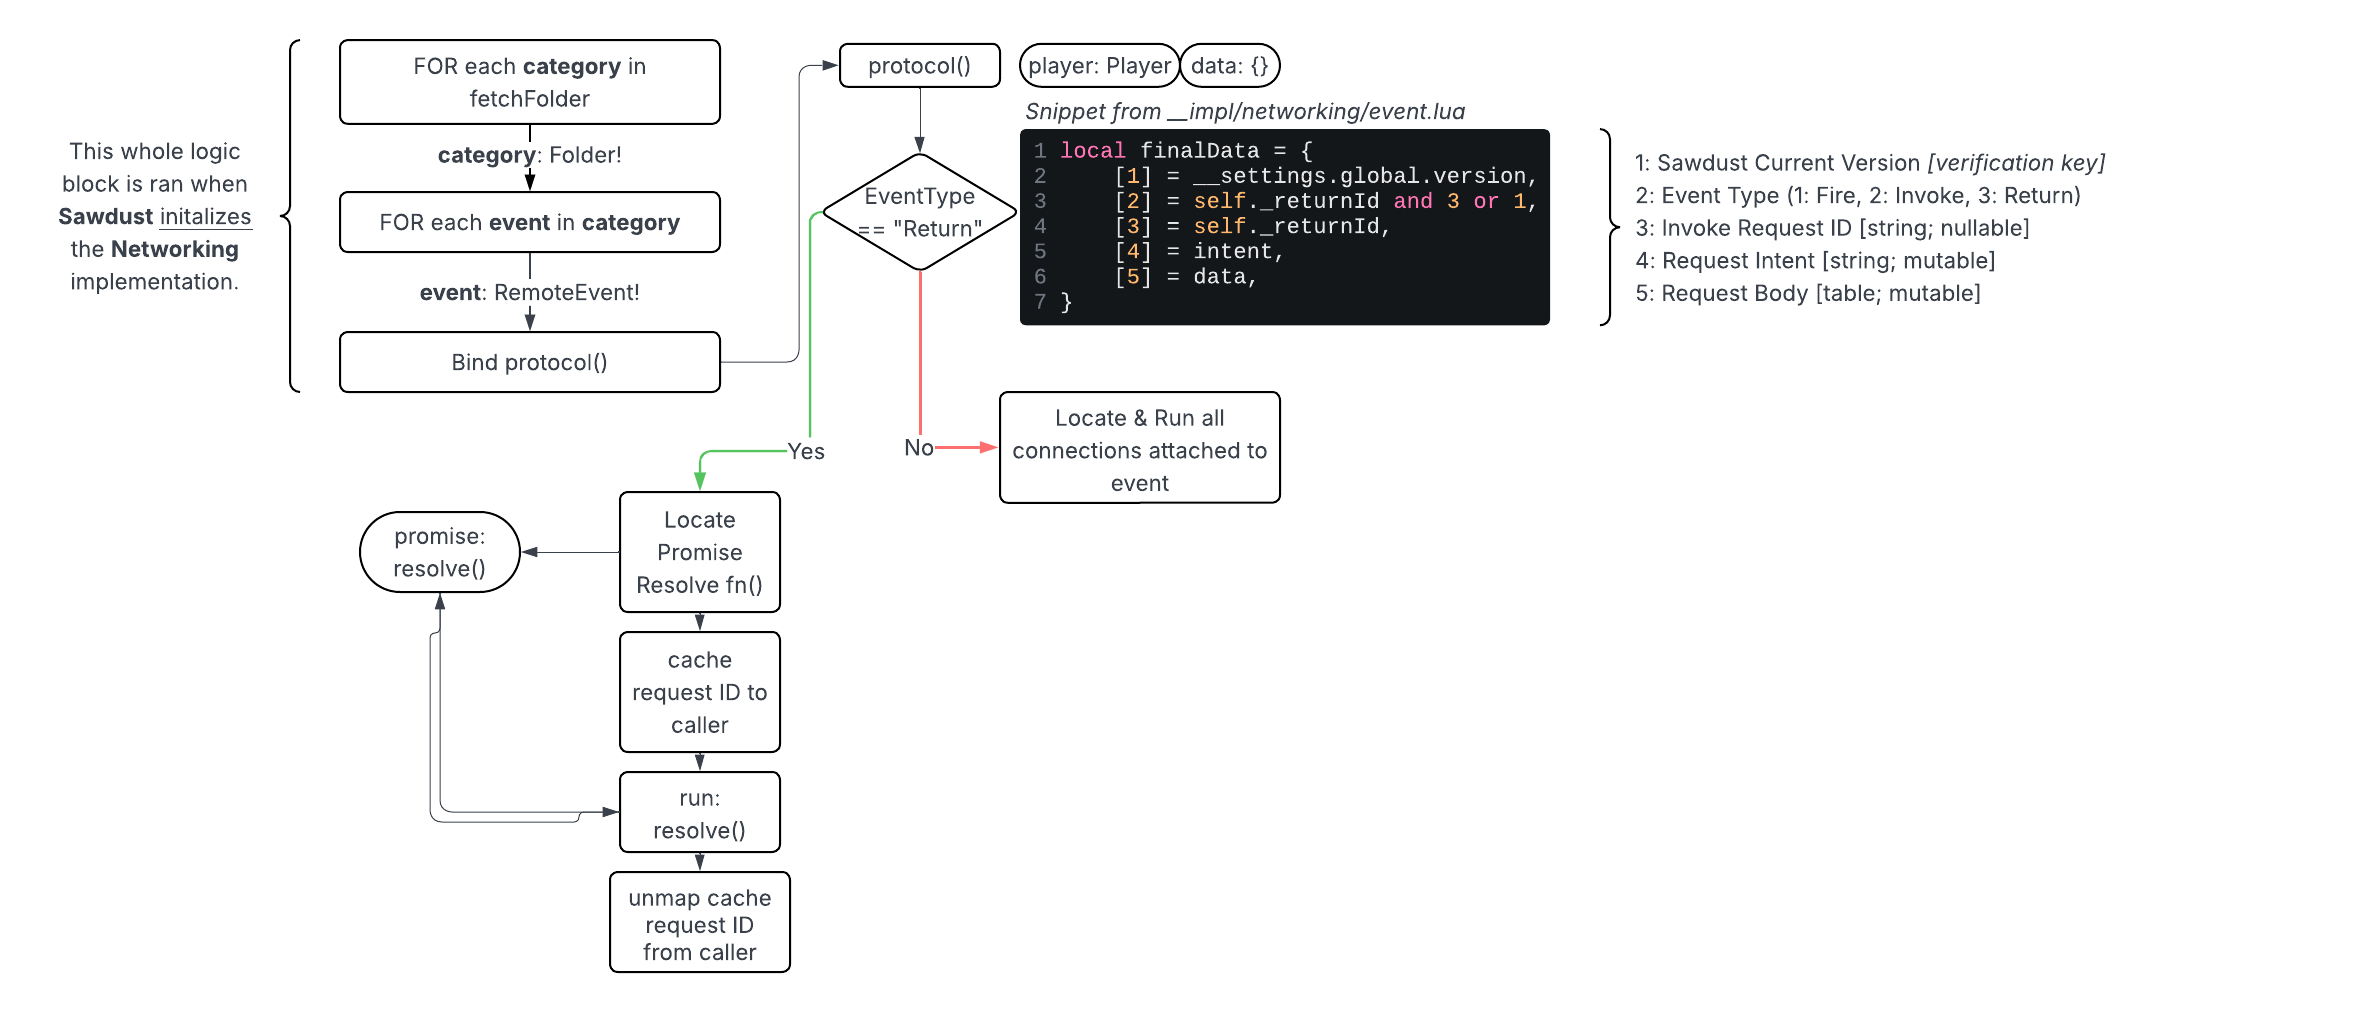
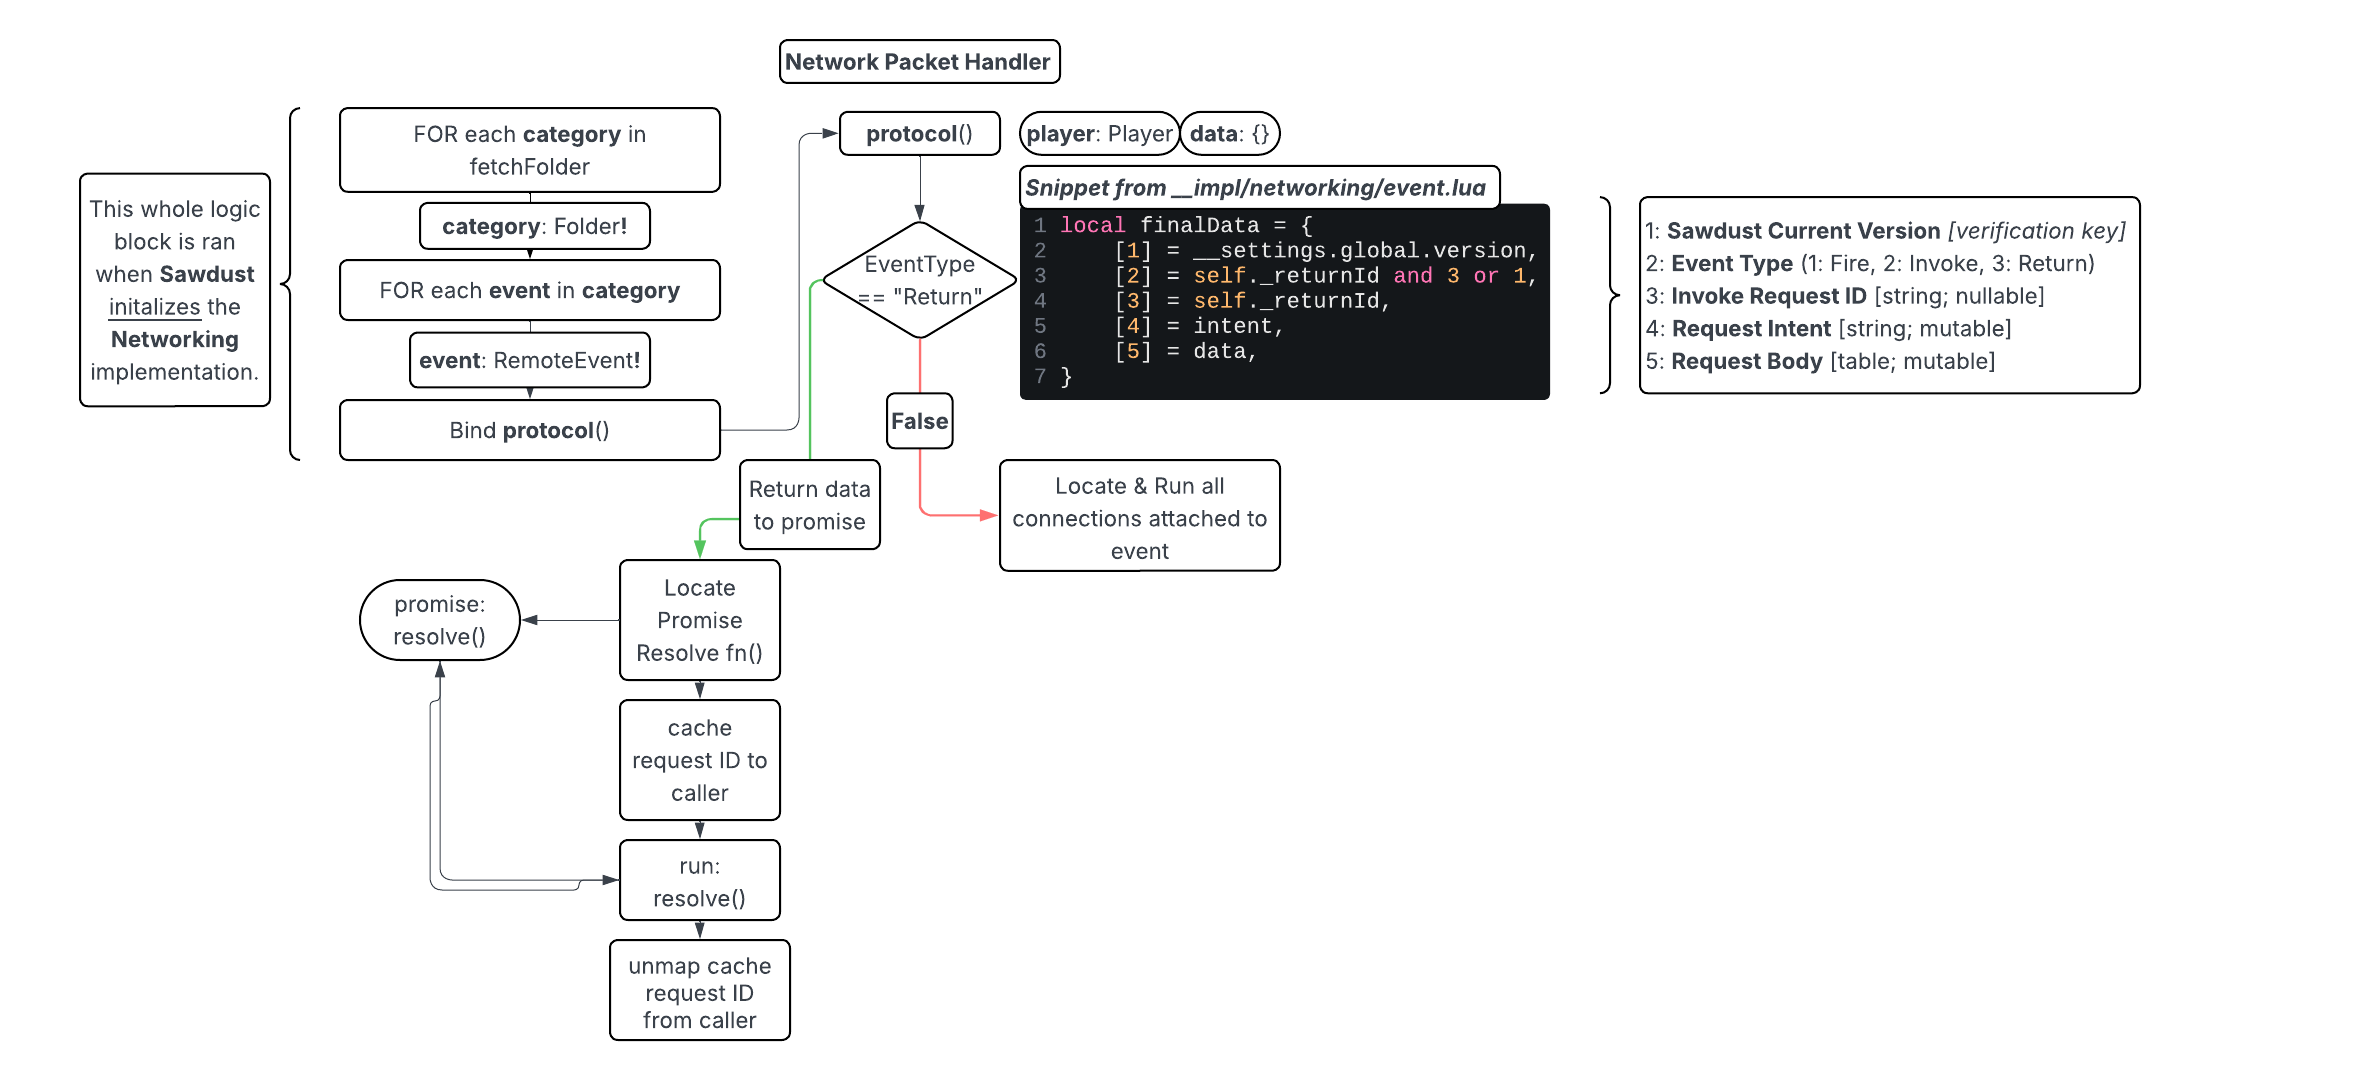
Filled out networking documentations.

Changed region(s): [[0.0311, 0.0306, 0.6529, 0.9802], [0.684, 0.1532, 0.9017, 0.3676], [0.8706, 0.337, 0.9017, 0.3676]]

diff --git a/docs/implementation-docs/networking.md b/docs/implementation-docs/networking.md
@@ -4,12 +4,160 @@ sidebar_position: 2
 
 # Networking
 
-I'm personally very proud of this implementation, and I think you'll come to love it as well! It was heavily inspired by Node's [ExpressJS](https://expressjs.com/) module in the way you handle events, as for firing events, I was heavily inspired by Node's [Axios](https://axios-http.com/). Basically, the best of both syntaxes, in a networking suite that can be as simple or advanced as you want.
+Sawdust's **Networking** Implementation is a robust RPC layer abstracted over Roblox RemoteEvents, inspired by the routing of [ExpressJS](https://expressjs.com/) and the request syntax of [Axios](https://axios-http.com/). It enables structured, bidirectional communication between client and server, while removing RemoteEvent boilerplate.
 
 ## RPC Layer
 
-When Sawdust initalizies this implementation, an initalization script runs that binds each remote in the `fetchFolder` to my custom networking handler, this provides a custom communication channel where you can dynamically send messages back and forth, soley utilizing RemoteEvents.
+When Sawdust initializes this implementation, an initalization script runs that binds each remote in the `fetchFolder` to my custom networking handler, this provides a custom communication channel where you can dynamically send messages back and forth, solely utilizing RemoteEvents.
 
 In the image below, I have mapped out a diagram of the Sawdust Networking Protocol function. The diagram describes the lifecycle, as well as how events are routed. It doesn't go in depth on how connections run, or how events compile and send data.
 
 ![Sawdust Networking Protocol](./img/NetworkProtocol.png)
+
+*Figure: Lifecycle of an event in Sawdust Networking, from initalization, to message handling.*
+
+## Core Concepts
+
+### fetchFolder
+
+This is the folder that **Sawdust** will search to find channels, which will be wrapped, binded to the Sawdust Networking protocol, and cached.
+
+### Event-Sided Awareness
+
+In Sawdust, the **Networking** implementation is designed so that the *same syntax* works on both **client** and **server**.
+
+When we refer to a "side", we mean the *content* in which the event handler or sender is running.
+
+- Server-side: You are in a server script/module. Incoming events come from clients, and you can either respond or reject their events. You can also broadcast to a select few, or globally.
+- Client-side: You are in a local script/module. Incoming events come from the server, and you can respond to them, and send events back.
+
+Sawdust does **not** require you to remember seperate APIs for each side, the same call patterns (`:with()`, `:handle()`, `:route()`) work anywhere, the only difference is **who you're talking to.**
+
+### Event Data
+
+Each event has specific data that will be attributed, notably the **intent**, and the **data**.
+
+The **intent** is a *string*, and this will tell the other side what exactly the event you fired is supposed to be doing. This allows you to use one event for a broad variety of things, and have streamlined handlers.
+
+The **data** is a *table*, and this is simply the data that will be passed along to the other side.
+
+### Channel
+
+[*__impl/networking/channel.lua*](https://github.com/Griffin-Dalby/Sawdust/blob/main/src/ReplicatedStorage/Sawdust/__impl/networking/channel.lua)
+
+**"Channels"** are wrapped *Folders* that simply expose all of the remotes that are included in the folder as a **Wrapped Event**, which will be covered in the next section.
+
+Example usage:
+
+```lua
+local sawdust = require(game:GetService('ReplicatedStorage').Sawdust)
+local networking = sawdust.core.networking
+
+local channel = networking.getChannel('channel_name') --] Provides wrapped channel
+local event = channel.event                           --] Provides wrapped event
+
+```
+
+### Events
+
+[*__impl/networking/event.lua*](https://github.com/Griffin-Dalby/Sawdust/blob/main/src/ReplicatedStorage/Sawdust/__impl/networking/event.lua)
+
+**"Events"** are wrapped *RemoteEvents* that provide all of the interface functions, such as the **"Call"** interface accessed by `:with()`, *req* and *res* with `:handle()`, and intent handling with `:route()`.
+
+Example usage:
+
+```lua
+local sawdust = require(game:GetService('ReplicatedStorage').Sawdust)
+local networking = sawdust.core.networking
+
+local channel = networking.getChannel('channel_name')
+channel.event:with() --> Fire-and-Forget
+    :intent('intent_string')          --] Set Intent
+    :data('argument_1', 'argument_2') --] Set Data
+    :fire()
+
+channel.event:with() --> Fire-and-Expect
+    :intent('intent_string')
+    :data('argument_1', 'argument_2')
+    :timeout(2) --] Set timeout time to 2 seconds
+    :invoke()   --> Returns a Sawdust Promise
+        :andThen(function(data)
+            local arg1, arg2 = data[1], data[2]
+        end)
+        :catch(function(err)
+            error(`[{script.Name}] Error occured while invoking event!`)
+            error(`[{script.Name}] {err or '<no error message provided>'}`)
+        end)
+```
+
+### Handling
+
+[*__impl/networking/event.lua*](https://github.com/Griffin-Dalby/Sawdust/blob/main/src/ReplicatedStorage/Sawdust/__impl/networking/event.lua)
+
+**Handling** is an important concept to understand, as this is where the ExpressJS syntax comes in! You can access an **event** the same way you would, then `:handle()` it, which will create a new **connection** to the event, the same way a *RBXScriptConnection* works.
+
+What's special about this, is you'll be provided with a **req** *(request)* object, and a **res** *(response)* object.
+
+With **req**, you can access the **intent** & **data** the event was sent with.
+
+With **res**, you can setup the current side's response, and then eventually **resolve**, or **reject** it.
+
+Example usage:
+
+```lua
+local sawdust = require(game:GetService('ReplicatedStorage').Sawdust)
+local networking = sawdust.core.networking
+
+local channel = networking.getChannel('channel_name')
+channel.event:handle(function(req, res)
+    local caller = req.caller :: Player
+    local intent = req.intent :: String
+    local data = req.data     :: {[number]: any}
+
+    if intent == 'intent_1' then
+        res.intent('intent_2')   --] Set response intent
+        res.data('argument_1')   --] Set response data
+        res.append('argument_2') --] Append to response data
+
+        res.send()               --] Send data to other side
+    else
+        warn(`[{script.Name}] Player {caller.Name} ({caller.UserId}) attempted to call event w/ invalid intent "{intent}"!`)
+
+        res.data('error message') --] You can use this to pass an error
+        res.reject() --] Reject request & send error to other side
+    end
+end)
+```
+
+### Routes
+
+[*__impl/networking/router.lua*](https://github.com/Griffin-Dalby/Sawdust/blob/main/src/ReplicatedStorage/Sawdust/__impl/networking/router.lua)
+
+The router system simply sets up routes for specific **intents**, so when this side receives an event with the specific intent, whatever you write in :on() will be called.
+
+The req/res syntax is the exact same as `:handle()`, as the router is simply an abstraction over the handling system.
+
+Example usage:
+
+```lua
+local sawdust = require(game:GetService('ReplicatedStorage').Sawdust)
+local networking = sawdust.core.networking
+
+local channel = networking.getChannel('channel_name')
+
+channel.event:route()
+    :on('intent_1', function(req, res)
+        print(`Player {req.caller.Name} called event w/ intent_1!`)
+    end)
+    :on('intent_2', function(req, res)
+        print(`Plauer {req.caller.Name} called event w/ intent_2 (& data return)`)
+
+        res.intent('intent_2')
+        res.data('argument_1', 'argument_2')
+
+        res.send()
+    end)
+```
+
+### Middleware
+

diff --git a/docs/intro.md b/docs/intro.md
@@ -32,7 +32,7 @@ Than you can easily access sawdust through **ReplicatedStorage.Sawdust**.
 
 Alternatively, you can download the `.rbxm` from the [GitHub release page](https://github.com/Griffin-Dalby/Sawdust/releases), and import it into your project's `ReplicatedStorage`.
 
-### Compile w/ Rojo | **!! Potentially Unstable !!**
+### Compile w/ Rojo | *!! Potentially Unstable !!*
 
 *Note: You must have the Rojo Studio Plugin!*
 
